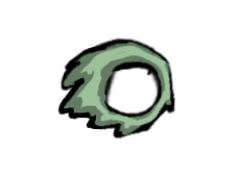
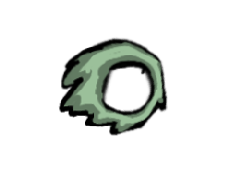
Bake 13 restored Tletingan fur hoods with composed one-pass fit
Compose old and corrected editor transforms around the 234x173 center, resampling once from original RGBA art. Preserve pixel art, add guarded reproduction script, record blob hashes and update documentation.

Changed region(s): [[0.2393, 0.2023, 0.7479, 0.8092]]

diff --git a/scripts/bake-tletingan-furhood-composed-fit.py b/scripts/bake-tletingan-furhood-composed-fit.py
@@ -1,0 +1,75 @@
+#!/usr/bin/env python3
+"""Bake the composed Tletingan fur-hood fit once from the unaltered PNGs.
+
+Requires Pillow. Run from the repository root. Refuses to re-bake already modified
+sprites; restore the pre-bake images before running with --write.
+"""
+
+import argparse
+import hashlib
+import json
+import math
+from pathlib import Path
+
+from PIL import Image
+
+ROOT = Path(__file__).resolve().parents[1]
+HOODS = ROOT / "docs/assets/cosmetics/clothes/hood"
+REVERT_RECORD = ROOT / "scripts/records/tletingan-furhood-bake-2026-11-03.json"
+# Effective transform: first fit followed by corrected-editor fit, around the image center.
+SCALE_X = 0.835 * 1.105
+SCALE_Y = 0.835 * 1.165
+TRANSLATE_X = -3.5 * 1.105
+TRANSLATE_Y = -11.25 * 1.165 + 11.75
+CANVAS = (234, 173)
+
+
+def git_blob_sha(data):
+    return hashlib.sha1(f"blob {len(data)}\0".encode() + data).hexdigest()
+
+
+def single_pass(source):
+    """Nearest-neighbor inverse pixel-center lookup; never resample twice."""
+    if source.size != CANVAS or source.mode != "RGBA":
+        raise ValueError(f"Expected RGBA {CANVAS}, found {source.mode} {source.size}")
+    width, height = CANVAS
+    output = Image.new("RGBA", CANVAS, (0, 0, 0, 0))
+    src, dst = source.load(), output.load()
+    # x_indices/y_indices are used for deterministic source pixel lookup below.
+    x_indices = [math.floor(((x + 0.5 - width / 2 - TRANSLATE_X) / SCALE_X)
+                            + width / 2 - 0.5 + 0.5) for x in range(width)]
+    y_indices = [math.floor(((y + 0.5 - height / 2 - TRANSLATE_Y) / SCALE_Y)
+                            + height / 2 - 0.5 + 0.5) for y in range(height)]
+    for y, src_y in enumerate(y_indices):
+        if not 0 <= src_y < height:
+            continue
+        for x, src_x in enumerate(x_indices):
+            if 0 <= src_x < width:
+                dst[x, y] = src[src_x, src_y]
+    return output
+
+
+def main():
+    parser = argparse.ArgumentParser(description=__doc__)
+    parser.add_argument("--write", action="store_true", help="Write the one-pass sprite replacements")
+    args = parser.parse_args()
+    record = json.loads(REVERT_RECORD.read_text())
+    rendered = []
+    for entry in record["files"]:
+        path = HOODS / entry["file"]
+        actual_sha = git_blob_sha(path.read_bytes())
+        if actual_sha != entry["beforeGitBlob"]:
+            raise SystemExit(f"Refusing to re-bake non-original art: {path} ({actual_sha})")
+        with Image.open(path) as src:
+            rendered.append((path, single_pass(src)))
+    # Validate all inputs BEFORE touching any output, to avoid a half-baked batch.
+    if args.write:
+        for path, rendered_image in rendered:
+            rendered_image.save(path, format="PNG")
+        print(f"Baked {len(rendered)} sprites in one pass from the verified originals")
+    else:
+        print(f"Verified {len(rendered)} originals. Re-run with --write to bake")
+
+
+if __name__ == "__main__":
+    main()

diff --git a/docs/architecture/fur-hood-leatherworking.md b/docs/architecture/fur-hood-leatherworking.md
@@ -61,9 +61,13 @@ The test checks the exact authored art filenames, manifest paths, genetic hue an
 
 ## Tletingan Nelk rear artwork and baked hood fit
 
-The Mashtzarr Nelk sprite was previously renamed to `furhood_nelk-back_mashtz_m.png`; the Tletingan variant now has both `furhood_nelk-front_tl_m.png` and the artist-uploaded `furhood_nelk-back_tl_m.png`. The rear PNG was imported from main without merging unrelated changes and was baked using the same Tletingan headwear fit applied to the other 12 fur-hood sprites: scale X/Y 0.835, translation X -3.5 px, Y -11.25 px, zero per-node 6×6 corrections. All 13 Tletingan files retain 234×173 RGBA canvas dimensions and source pixel-art colors. The authoring JSON's associated transform should be reset to identity when using the baked sprite set, or the fit will be applied twice.
+The Mashtzarr Nelk sprite was previously renamed to `furhood_nelk-back_mashtz_m.png`; the Tletingan variant has both `furhood_nelk-front_tl_m.png` and the artist-uploaded `furhood_nelk-back_tl_m.png`. The original 13-sprite resize (0.835 on both axes, translation X -3.5 and Y -11.25) was reverted by PR #1417 because that editor preview was inaccurate. The corrected editor was subsequently calibrated against the already resized sprites (scale X 1.105, Y 1.165; translation X 0, Y +11.75).
 
-The manifest keeps `pendingAssets: []`: every referenced animal front/back piece is now required to exist, including the newly committed Nelk rear PNG. Regression tests no longer exempt it from missing-image checks. The complete batch is recorded in `scripts/records/tletingan-furhood-bake-2026-11-03.json` with the original and baked Git blob hashes.
+All 13 restored original Tletingan sprites are now baked **once** using the composed center-anchored transform: scale X **0.922675**, scale Y **0.972775**, translation X **-3.8675 px**, Y **-1.35625 px**, with zero 6×6 per-node offsets. Only a single nearest-neighbor inverse pixel-center lookup is performed on each original, retaining the 234×173 RGBA canvas and source pixel colors. This avoids repeated resampling. The script `scripts/bake-tletingan-furhood-composed-fit.py` checks the original Git blob hashes before changing any sprite. The new before/after record is `scripts/records/tletingan-furhood-composed-fit-2026-11-04.json`; the historical first-pass record is preserved.
+
+**Do not apply either saved transform to these baked PNGs in the runtime or clothing-fit tool.** If displaying the baked files, reset their fit transform to identity; if displaying original unbaked files, use the single composed transform instead.
+
+The manifest keeps `pendingAssets: []`: every referenced animal front/back piece is required to exist, including the Tletingan Nelk rear PNG. Regression tests do not exempt it from missing-image checks.
 
 ## Exact sprite-color exclusion eyedropper
 
